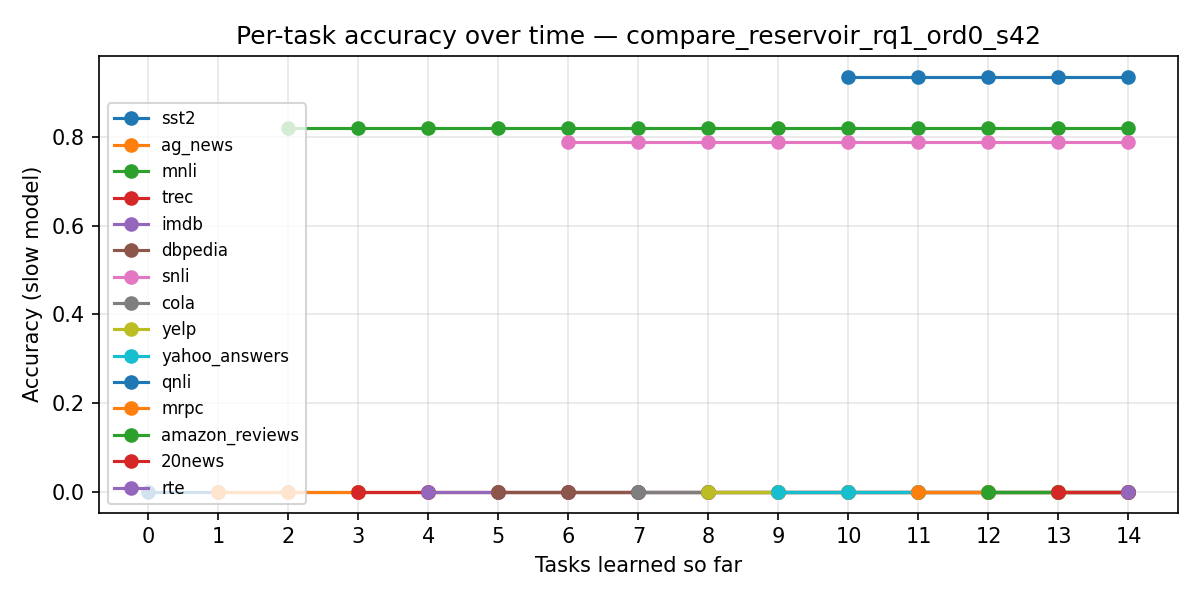
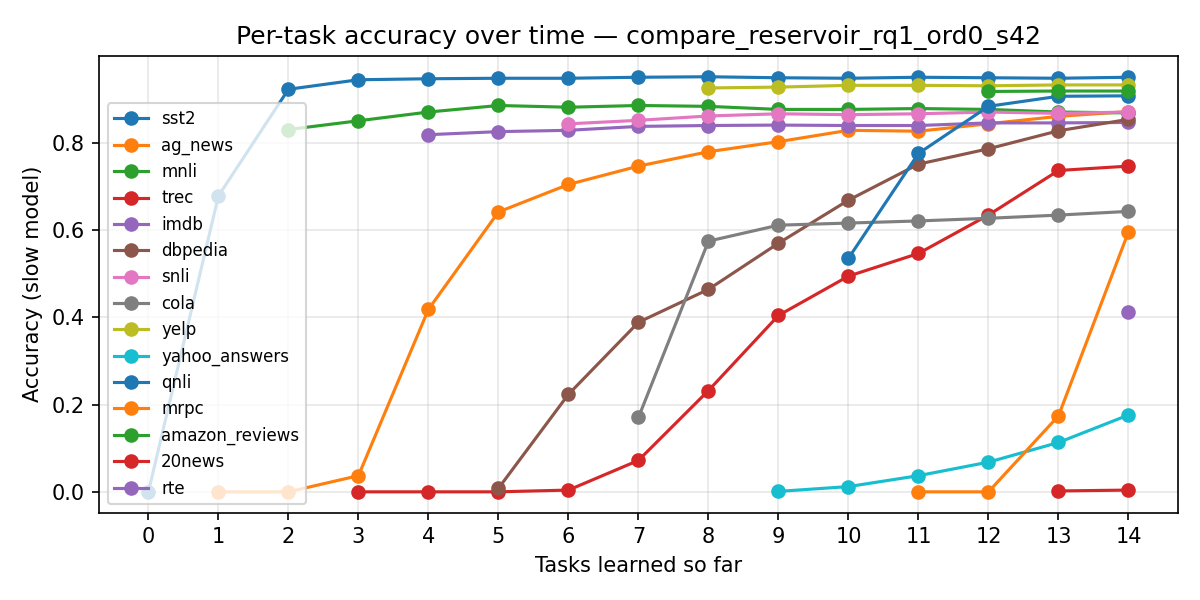
use ema on reservoir

diff --git a/scripts/run_experiment.py b/scripts/run_experiment.py
@@ -196,14 +196,26 @@ def main():
     all_test_loaders = {}
     print("[Data] Loading all tasks...")
     all_data = {}
+    task_sizes = {}
     for task_name in task_order:
-        print(f"  [Load] {task_name}")
         train_samples, train_loader, test_loader = load_task(
             task_name, tokenizer, n_train, n_test,
             batch_size=cfg.batch_size_current,
             seed=cfg.seed,
         )
+        n_tr = len(train_samples)
+        n_te = len(test_loader.dataset)
+        task_sizes[task_name] = {"train": n_tr, "test": n_te}
+        print(f"  [Load] {task_name}: train={n_tr}, test={n_te}")
         all_data[task_name] = (train_samples, train_loader, test_loader)
+
+    # Summary table so it's easy to scan against the requested n_train/n_test
+    print(f"\n[Data] Sample counts per task (requested train={n_train}, test={n_test}):")
+    print(f"  {'task':<16} {'train':>7} {'test':>7}")
+    for tn in task_order:
+        s = task_sizes[tn]
+        print(f"  {tn:<16} {s['train']:>7} {s['test']:>7}")
+    print()
 
     # ---- Main CL loop ----
     for task_id, task_name in enumerate(task_order):
@@ -238,7 +250,7 @@ def main():
 
     out_path = logger.log_dir / "final_results.json"
     with open(out_path, "w") as f:
-        json.dump({"summary": summary, "all_results": {
+        json.dump({"summary": summary, "task_sizes": task_sizes, "all_results": {
             str(k): {str(kk): vv for kk, vv in v.items()}
             for k, v in evaluator.all_results.items()
         }}, f, indent=2)

diff --git a/scripts/run_comparison.py b/scripts/run_comparison.py
@@ -42,7 +42,7 @@ METHODS = {
     "feature":    ["--selection", "feature"],
     "conflict":   ["--selection", "conflict"],
     "surprise":   ["--selection", "surprise"],
-    "reservoir":  ["--selection", "reservoir", "--no-ema"],
+    "reservoir":  ["--selection", "reservoir"],
 }
 
 ALL_BENCHMARKS = ["rq1"]
@@ -79,7 +79,7 @@ Methods:
   feature     O-Feat: feature subspace orthogonality + EMA (Method 2)
   conflict    O-Conflict: gradient conflict score + EMA (Method 3)
   surprise    SuRe baseline: surprise-based selection + EMA
-  reservoir   Random baseline: reservoir sampling, no EMA
+  reservoir   Random baseline: reservoir sampling + EMA
 
 Examples:
   python scripts/run_comparison.py
